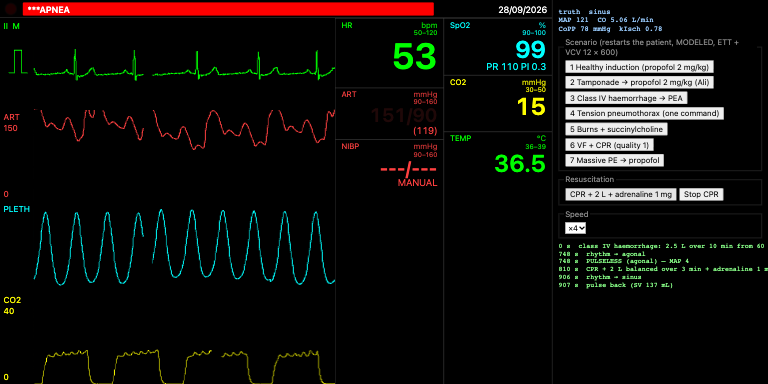
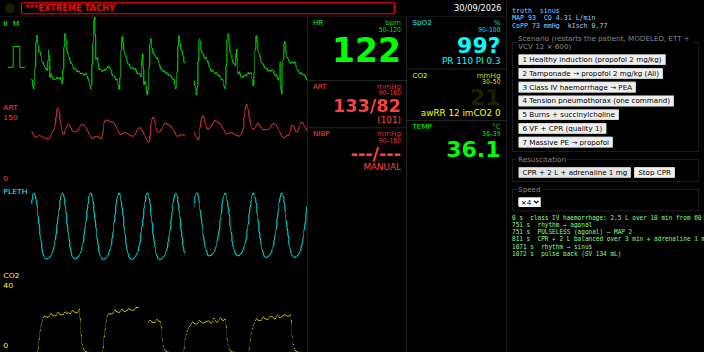
fix(arrest): the PEA decay pauses while CPR refills an empty heart — the FU-4 class IV resuscitation regains a pulse (FU-8 gate finding G-FU8A-1)
Cause: A19's outflow limiter means compressions cannot empty a heart that holds no blood, so after the exsanguination the continuous CoPP rises 3 → 15 mmHg only over ≈ 130 s of CPR + 2 L; the decay paused only at CoPP ≥ CPP_ROSC, so the agonal asystole hazard ran through the refill and the FU-4 page's scenario 3 ended in asystole 93 s into CPR. peaDecayStep now also pauses while CPR runs, the net infusion is positive and the zero-flow gap P_ZF − CoPP is closing (CoPP above its low-pass at TAU_ISCH_DOWN_S); no constant changed. Scenario 3: pulse at +260 s of CPR (page 1072 s); class IV ROSC +265 s, asphyxial decay +76/+149 s, shock-made PEA 201 s unchanged. New test fu8-pea-resus fails on 018b071. FU-4 3b re-taken (SHOT_SCALE 0.55, 55 KB).

diff --git a/packages/engine-core/test/engine/fu8-pea-resus.test.ts b/packages/engine-core/test/engine/fu8-pea-resus.test.ts
@@ -1,0 +1,62 @@
+// FU-8 gate finding G-FU8A-1: the FU-4 demo page's class IV scenario (apps/demo/src/fu4.ts scenario 3) — 2.5 L over
+// 10 min from 60 s, then "CPR + 2 L + adrenaline" 60 s after the page sees the patient pulseless. Seed 7, MODELED,
+// ventilated (ETT + VCV 12 × 600, PEEP 5, FiO2 0.5), the page's own pulseless rule (a no-beat rhythm, or 5 consecutive
+// `circ` events without ejection). SLOW_A.
+// On the FU-8 head 018b071 the agonal PEA decayed to asystole at 903 s, 93 s into CPR: after Task A19 compressions cannot
+// empty a heart that holds no blood, so the continuous CoPP stays under CPP_ROSC (15) for ≈ 130 s while the 2 L refill
+// it, and the decay (paused only at CoPP ≥ 15) ran its asystole hazard through that window. Before FU-8 the suction
+// artefact gave CoPP ≥ 15 within 36 s and a pulse at ≈ +120 s.
+import { describe, expect, it } from 'vitest';
+import { createEngine } from '../../src/engine.ts';
+
+type Circ = { sv: number; t: number };
+async function scenario3(): Promise<{ tA: number; tResus: number; tPulse: number | null; seen: string[] }> {
+  const e = createEngine({ seed: 7, mode: 'modeled', patient: { ageY: 40, sex: 'M', weightKg: 70, heightCm: 175, sensors: { abp: 'connected', cvp: 'connected', spo2: 'on', co2: 'on' } } } as never);
+  let n = 0;
+  const ev = (event: Record<string, unknown>) => e.dispatch({ id: `s${++n}`, issuedBy: 'test', type: 'applyEvent', event } as never);
+  let rhythm = 'sinus';
+  let noEject = 0;
+  let tA: number | null = null;
+  let tPulse: number | null = null;
+  const seen: string[] = [];
+  e.on((x) => {
+    if (x.type === 'state' && x.rhythm) {
+      if (x.rhythm.id !== rhythm) seen.push(x.rhythm.id);
+      rhythm = x.rhythm.id;
+    }
+    if (x.type === 'circ') {
+      const c = x as unknown as Circ;
+      noEject = c.sv < 5 ? noEject + 1 : 0;
+      const pulseless = ['agonal', 'asystole', 'vfCoarse', 'vfFine'].includes(rhythm) || noEject >= 5;
+      if (tA === null && pulseless) tA = c.t;
+      else if (tA !== null && tPulse === null && !pulseless && c.sv > 20) tPulse = c.t; // the page's "pulse back"
+    }
+  }, ['state', 'circ']);
+  e.advanceTo(1);
+  ev({ kind: 'airwayDevice', device: 'ett' });
+  ev({ kind: 'ventilation', source: 'ventilator', rr: 12, vtMl: 600, peep: 5, fio2: 0.5 });
+  e.advanceTo(60);
+  ev({ kind: 'bleed', volumeMl: 2500, overS: 600 });
+  let tResus = -1;
+  for (let t = 61; t <= 1800 && tPulse === null; t++) {
+    e.advanceTo(t);
+    if (tA !== null && tResus < 0 && t >= tA + 60) {
+      tResus = t;
+      ev({ kind: 'cpr', active: true, rate: 110, quality: 0.8 });
+      ev({ kind: 'fluid', fluid: 'balanced', volumeMl: 2000, overS: 180 });
+      ev({ kind: 'drug', drugId: 'epinephrine', dose: 1, unit: 'mg', route: 'iv' });
+    }
+    if (t % 60 === 0) await new Promise((r) => setImmediate(r));
+  }
+  return { tA: tA ?? -1, tResus, tPulse, seen };
+}
+
+describe('FU-8 G-FU8A-1: the PEA decay pauses while the resuscitation refills an empty heart', () => {
+  it('FU-4 page scenario 3 (class IV, CPR + 2 L + adrenaline 60 s after the page sees the PEA): a pulse returns within 10 min of CPR and the rhythm never reaches asystole (FU-8 head 018b071: asystole at 903 s, 93 s into CPR, no pulse)', async () => {
+    const r = await scenario3();
+    console.log(`fu8 G-FU8A-1: pulseless at ${r.tA} s, CPR from ${r.tResus} s, pulse at ${r.tPulse ?? 'never'} s (+${r.tPulse !== null ? r.tPulse - r.tResus : '–'} s of CPR); rhythms ${r.seen.join(' → ')}`);
+    expect(r.seen).not.toContain('asystole');
+    expect(r.tPulse).not.toBeNull();
+    expect((r.tPulse as number) - r.tResus).toBeLessThanOrEqual(600);
+  }, 300_000);
+});

diff --git a/packages/engine-core/src/l2/circ/arrest.ts b/packages/engine-core/src/l2/circ/arrest.ts
@@ -14,7 +14,7 @@
 // Every draw uses the engine's `outcome` stream and is taken only when a hazard is non-zero or an arrest is declared,
 // so runs without them keep every stream untouched.
 import type { RhythmId, RhythmOpts } from '../../types.ts';
-import { NO_BEAT_RHYTHMS } from './coronary.ts';
+import { NO_BEAT_RHYTHMS, P_ZF, TAU_ISCH_DOWN_S } from './coronary.ts';
 import { P_ASYSTOLE_ONSET, P_VF_ONSET } from './hypoxic-arrest.ts';
 import type { CircModelState } from './model.ts';
 
@@ -113,10 +113,31 @@ export const PEA_ASYSTOLE_MEAN_S = 420; // mean time from the idioventricular ph
  * idioventricular rhythm, or asystole) or null. It goes through the caller's single `requestRhythm` path (E-FU3-8).
  * `u` draws one uniform from the outcome stream.
  */
-export function peaDecayStep(m: CircModelState, rhythmId: string, pulseless: boolean, cpp: number, u: () => number, dt: number): ArrestRequest | null {
+export function peaDecayStep(
+  m: CircModelState,
+  rhythmId: string,
+  pulseless: boolean,
+  cpp: number,
+  u: () => number,
+  dt: number,
+  resus?: { cpr: boolean; netInMlS: number },
+): ArrestRequest | null {
   const a = m.arrest;
   if (!a) return null;
+  // FU-8 (gate finding G-FU8A-1): the perfusion pressure's own trend, low-passed with the coronary filter's time
+  // constant (coronary.ts TAU_ISCH_DOWN_S, tables Q32)
+  const cppLp = a.cppLp ?? cpp;
+  a.cppLp = cppLp + (cpp - cppLp) * (1 - Math.exp(-dt / TAU_ISCH_DOWN_S));
   if (cpp >= CPP_ROSC) return null; // effective CPR suspends the decay (the ROSC path handles recovery)
+  // FU-8 (G-FU8A-1; FU-4 ruling 7): so does a resuscitation that is refilling an empty heart. Since Task A19 the
+  // compressions cannot empty chambers that hold no blood, so after an exsanguination the continuous CoPP starts near 0
+  // and reaches CPP_ROSC only as the fluid goes in (FU-4 page scenario 3: 3 → 15 mmHg over ≈ 130 s of CPR + 2 L); below
+  // the coronary zero-flow pressure P_ZF (= CPP_ROSC) there is no coronary flow, so the ischaemia index the model can see
+  // improving is the zero-flow gap P_ZF − CoPP shrinking. While CPR runs, volume is going in (net infusion > 0) and that
+  // gap is closing (CoPP above its own low-pass), the decay pauses: on 018b071 the agonal rhythm's asystole hazard ran
+  // through the refill and the case ended in asystole at +93 s of CPR (before FU-8 the suction artefact gave CoPP ≥ 15
+  // within 36 s). A plateau below P_ZF (CPR that is not refilling a heart, e.g. into a tamponade) lets it run again.
+  if (resus?.cpr && resus.netInMlS > 0 && cpp < P_ZF && cpp > cppLp) return null;
   if (rhythmId === 'agonal') {
     // the idioventricular phase: asystole as a hazard with a mean of PEA_ASYSTOLE_MEAN_S
     return u() < dt / PEA_ASYSTOLE_MEAN_S ? { id: 'asystole', opts: {}, cause: a.cause } : null;

diff --git a/packages/engine-core/src/l2/circ/model.ts b/packages/engine-core/src/l2/circ/model.ts
@@ -147,7 +147,7 @@ export interface CircModelState {
   /** FU-4 G4: mean radial pressure, low-passed (τ 2 s) at the 10 Hz control step in both modes — beats or none. */
   mapNow: number;
   /** FU-4 G1: the arrest this model declared (cause, time, the organised rhythm it came from), null while beating. */
-  arrest: { cause: string; t: number; from: string; roscS: number; rate0: number; rateNow: number } | null; // FU-4 F5: rate0/rateNow drive the PEA decay
+  arrest: { cause: string; t: number; from: string; roscS: number; rate0: number; rateNow: number; cppLp?: number } | null; // FU-4 F5: rate0/rateNow drive the PEA decay; FU-8 (G-FU8A-1): cppLp, the CoPP trend
   noFlowS: number; // FU-4 G1: seconds the continuous MAP has been below arrest.ts MAP_NO_FLOW
   saF: number; // FU-4 (G-FU3 ruling 1): the sinus-node factor of the last control step (MODELED; 1 in MANUAL) — the escape foci follow it
   chemo: { sao2: number; paco2: number }; // chemoreflex inputs (written at 1 Hz by the pipeline from L1 truths)

diff --git a/packages/engine-core/src/l2/hemo/pipeline.ts b/packages/engine-core/src/l2/hemo/pipeline.ts
@@ -454,7 +454,9 @@ function emitSecond(hs: HemoState, ctx: HemoCtx, t: number): void {
       if (back) ctx.requestRhythm(back.id, back.opts);
       else {
         // FU-4 F5 (ruling 7): the untreated organised PEA decays — slower, then idioventricular, then asystole
-        const dec = peaDecayStep(c, ctx.rhythm.id, pulseless, cppCont, u, 1);
+        let netIn = 0; // FU-8 (G-FU8A-1): the net volume going in now (fluid minus bleed), mL/s
+        for (const v of c.vol) if (v.until > t) netIn += v.rate;
+        const dec = peaDecayStep(c, ctx.rhythm.id, pulseless, cppCont, u, 1, { cpr: hs.cpr.active, netInMlS: netIn });
         if (dec) {
           if (c.arrest) c.arrest.rateNow = dec.opts.rateBpm ?? c.arrest.rateNow;
           ctx.requestRhythm(dec.id, dec.opts);

diff --git a/docs/gates/fu-8-part-a.md b/docs/gates/fu-8-part-a.md
@@ -121,7 +121,7 @@ the plan's +9.92)**; from A19 on it is **+9.83** (plan +9.75), at the gate +9.83
 | class IV ROSC, CPR + 2 L + adrenaline (`circ-lowflow-arrest`) | +119 s (band ≤ 180) | **+260 s** at A19, **+265 s** from A22 | +260 s | A19 | RE-STATED ≤ 300 s (E-FU8-9, ruling 3) |
 | 7b CPR trough ≤ 30 (`hemo-acceptance`) | `it.fails`, 30.6 | **25.2** | 25.2 | A19 | pin FLIPS |
 | exsanguination volume + adrenaline (E-FU4-19 measurement) | 3 L +180 s, 3.5 L +170 s | **no pulse at 2 / 2.5 / 3 / 3.5 L** in 10 min | none | A19 | measurement (W7) |
-| FU-4 page, class IV + "CPR + 2 L + adrenaline" (`fu4-shots` scenario 3) | ROSC (3b shot) | **no pulse in 600 s**: agonal → asystole 91 s into CPR | — (not in the plan) | A19 (+A6) | display; 3b NOT re-taken (deviation 5) |
+| FU-4 page, class IV + "CPR + 2 L + adrenaline" (`fu4-shots` scenario 3) | ROSC ≈ +120 s of CPR (organised PEA seen at 644 s) | at `018b071`: no pulse, agonal → asystole 93 s into CPR; **after the G-FU8A-1 fix: pulse at +260 s of CPR** (engine rig `fu8-pea-resus`: PEA seen 750 s, CPR 810 s, pulse 1070 s, agonal → sinus; page: pulse 1072 s) | — (not in the plan) | A19; fixed in the decay (G-FU8A-1) | passing; 3b re-taken |
 | asphyxial PEA (`circ-hypoxic-arrest`, 5–14 min) | +6.35 min | **+11.17 min** | +11.2 | A10 | passing; title re-stated (E-FU8-4) |
 | asphyxia FiO2 1 reversal | 7 s | **7 s** | 7 s | A10 | passing |
 | asphyxial PEA decay: agonal / asystole after the arrest | +2 / +75 s | **+76 / +149 s** | +76 / +149 | A6, A10 | passing |
@@ -198,8 +198,9 @@ edit its property (child ≈ adult) will need re-stating by FU-6 too (child 0.30
 - `a19-tamponade-cpr-arterial.png` — tamponade PEA + CPR q 0.8 (+90 s): ART 38/17 (24).
 - `a23-vf-cpr-artefact-lead-ii.png` — VF + CPR q 1 at 130 s: the compression artefact on lead II.
 - `docs/gates/fu-4/5a-burns-sux-sine.png` re-taken with E-FU8-8 (+215 s): wide peaked hyperkalaemic complexes at MAP 85,
-  6 s before VF (VF at +222 s on this tree, the plan said +225). **3b not re-taken** (deviation 5); the latched APNEA
-  presentation D2 describes is shown by the A4 pair.
+  6 s before VF (VF at +222 s on this tree, the plan said +225). **3b re-taken after the G-FU8A-1 fix** (scale 0.55, 55 KB,
+  `SHOT_SCALE` added to `fu4-shots.mjs`, default 0.6 unchanged): pulse back at 1072 s, sinus 122, ART 133/82 (101); the bar
+  now shows `***EXTREME TACHY` (post-adrenaline) — the latched APNEA presentation D2 describes is shown by the A4 pair.
 
 ## 8. Deviations from the plan
 
@@ -208,9 +209,19 @@ edit its property (child ≈ adult) will need re-stating by FU-6 too (child 0.30
 2. **A22: V.1's `resp-child-rest` guard test pinned `it.fails`** — proposed E-FU8-13 (§6).
 3. **A22's quality-map title** carries the measured 20.5 (plan 20.4) for quality 0.5.
 4. **A27 fixed `l1/ramp.ts`**, not the MANUAL tracker in `hemo/pipeline.ts` (§5): the measured cause.
-5. **FU-4 3b not re-taken**: the FU-4 page's class IV "CPR + 2 L + adrenaline" (started 60 s after the page sees the
-   agonal PEA) regains no pulse in 600 s on this tree — the agonal rhythm decays to asystole 91 s into CPR, before the
-   A19 ROSC time (+260 s) — so there is no ROSC to photograph; the original 3b was restored. Declared as a moved row (§4).
+5. **RESOLVED (gate finding G-FU8A-1).** At `018b071` the FU-4 page's class IV "CPR + 2 L + adrenaline" (started 60 s after
+   the page sees the agonal PEA) ended in asystole 93 s into CPR. Cause: **A19** — compressions can no longer empty a
+   heart that holds no blood, so after the exsanguination the continuous CoPP rose 3 → 15 mmHg only over ≈ 130 s while
+   the 2 L went in, and the PEA decay, paused only at CoPP ≥ CPP_ROSC (15, FU-4 ruling 7), ran the agonal phase's
+   asystole hazard through the refill (before FU-8 the suction artefact gave CoPP ≥ 15 within 36 s). A6 (the hazard is
+   per second), A21 (the engine declared this arrest itself) and A22 (gas side) do not enter. Fix (`l2/circ/arrest.ts`
+   `peaDecayStep`): the decay also pauses while CPR runs, the net infusion is positive and the coronary zero-flow gap
+   P_ZF − CoPP is closing (CoPP above its own low-pass at the coronary filter's TAU_ISCH_DOWN_S, Q32); P_ZF = CPP_ROSC,
+   so below it no coronary flow exists and this gap is the only ischaemia index that can improve. No constant changed.
+   Scenario 3: pulse at +260 s of CPR (engine rig) / 1072 s on the page. Unit rigs unchanged: class IV ROSC +265 s,
+   asphyxial decay +76 / +149 s untreated, shock-made PEA pulse at 201 s, instructor PEA + CPR 141 s, S8 +9.83 min, S13
+   24.9–28.0, CPR alone after exsanguination no pulse, the volume thresholds none up to 3.5 L; engine fast set 271 files
+   green; the affected files + every `fu8-*` 56 files / 274 passed. New test `fu8-pea-resus` (fails on `018b071`).
 6. **The CM/DV cells** (research/19 §9, research/20 §9) were not run: their scripts are outside the repository (§0).
 7. **Slow-group times are contended** (§0); **tick bench** compared base vs FU-8 on the same container (§0), not against
    the FU-4 gate's Mac 0.52 ms. The validation package's local tick bound (p50 < 2 ms without `CI`) fails on this
@@ -225,8 +236,8 @@ edit its property (child ≈ adult) will need re-stating by FU-6 too (child 0.30
 - **FU-7 Task 0:** re-anchor on FU-8 Part A as listed; additionally `l2/circ/devices.ts`/`l2/hemo/pipeline.ts` (A26 LVAD
   lines) and `l1/ramp.ts` (A27). AF quiet band stays `it.fails` at 0.89 (guard path). Arrest-state precondition (6c)
   holds (shock-made PEA: pulse at 201 s).
-- **W7:** no pulse at 2 / 2.5 / 3 / 3.5 L; the class IV ROSC +265 s; the FU-4 page's class IV resuscitation no longer
-  gets a pulse (asystole 91 s into CPR).
+- **W7:** no pulse at 2 / 2.5 / 3 / 3.5 L; the class IV ROSC +265 s; the FU-4 page's class IV resuscitation regains a
+  pulse at +260 s of CPR after the G-FU8A-1 fix (it had ended in asystole 93 s into CPR at `018b071`).
 - **W12:** neonate 0.31 L/min = 89 mL/kg/min at the gate (MAP 64), infant 61 / 0.58, child 77 / 1.64.
 - **W18 (A25):** unchanged — 34 invalid samples / 16 flips.
 - **W20:** EXTREME BRADY 947.0 s, ASYSTOLE 1096.9 s.
